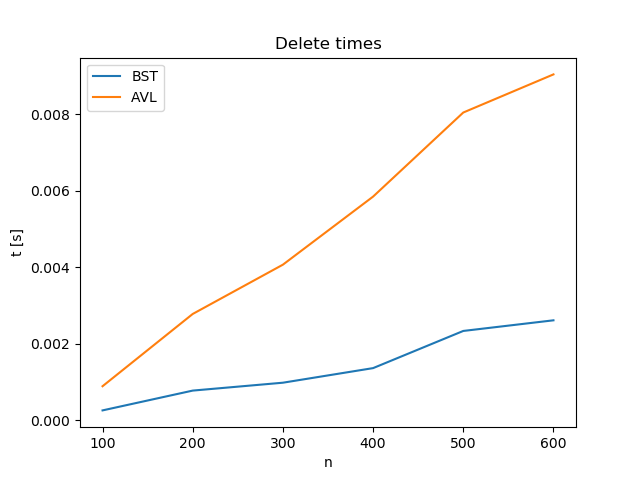
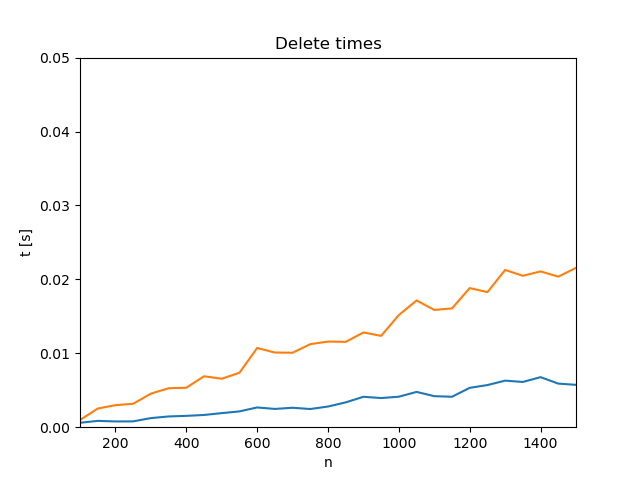
Added new charts

diff --git a/Lab_2/Trees.py b/Lab_2/Trees.py
@@ -10,10 +10,14 @@ def plot_graph_create_tree(amount, increase):  #amount - number of repetitions, 
     n = increase
     prepList = []
     AVLprepList = []
+    # keys[], values[] are used later to create chart
     keysBST = []
     valuesBST = []
     keysAVL = []
     valuesAVL = []
+    # results[] store results that will be added to file
+    results_AVL = []
+    results_BST = []
     while (i < amount):
         treeBST = None
         treeAVL = AVL_Tree()
@@ -33,22 +37,36 @@ def plot_graph_create_tree(amount, increase):  #amount - number of repetitions, 
         stop2 = process_time()
         timeBST = stop1 - start1
         timeAVL = stop2 - start2
+        results_BST.append(f'inserted {n} elements, time: {timeBST}')
+        print(f'inserted {n} elements, time: {timeBST}')
+        results_AVL.append(f'inserted {n} elements, time: {timeAVL}')
+        print(f'inserted {n} elements, time: {timeAVL}')
         keysBST.append(n)
         valuesBST.append(timeBST)
         keysAVL.append(n)
         valuesAVL.append(timeAVL)
         n = n + increase
         i = i + 1
-        print("time", timeAVL)
+
     plt.plot(keysBST, valuesBST, label="BST")
     plt.plot(keysAVL, valuesAVL, label="AVL")
     plt.title(label="Insertion times")
     plt.xlabel("n")
     plt.ylabel("t [s]")
+    plt.axis([0, 11000, 0, 2.5])
     plt.legend()
+
     plt.savefig("Insertion_times.png")
     plt.show()
     plt.clf()
+    with open ("wyniki_AVL.txt", 'w') as fh:
+        for line in results_AVL:
+            fh.write(line)
+
+    with open ("wyniki_BST.txt", 'w') as fh:
+            for line in results_BST:
+                fh.write(line)
+
 
 
 def plot_graph_remove_node(amount, increase, remove):  #amount - number of repetitions, increase - more numbers, remove - how many more node/keys we are removing
@@ -63,6 +81,8 @@ def plot_graph_remove_node(amount, increase, remove):  #amount - number of repet
     valuesBST = []
     keysAVL = []
     valuesAVL = []
+    results_AVL = []
+    results_BST = []
     while (i < amount):
         treeBST = None
         for x in range(1, n + 1):
@@ -83,6 +103,10 @@ def plot_graph_remove_node(amount, increase, remove):  #amount - number of repet
         stop2 = process_time()
         timeBST = stop1 - start1
         timeAVL = stop2 - start2
+        results_BST.append(f'deleted {r} elements, time: {timeBST}')
+        print(f'deleted {r} elements, time: {timeBST}')
+        results_AVL.append(f'deleted {r} elements, time: {timeAVL}')
+        print(f'deleted {r} elements, time: {timeAVL}')
         keysBST.append(r)
         valuesBST.append(timeBST)
         keysAVL.append(r)
@@ -96,15 +120,23 @@ def plot_graph_remove_node(amount, increase, remove):  #amount - number of repet
     plt.title(label="Delete times")
     plt.xlabel('n')
     plt.ylabel("t [s]")
-    plt.legend()
+    plt.axis([100, 1500, 0, 0.05])
     plt.savefig("Delete_times.png")
     plt.show()
     plt.clf()
 
+    with open ("wyniki_AVL.txt", 'w') as fh:
+        for line in results_AVL:
+            fh.write(line)
+
+    with open ("wyniki_BST.txt", 'w') as fh:
+            for line in results_BST:
+                fh.write(line)
+
 
 def main():
-    plot_graph_create_tree(6, 1000)
-    plot_graph_remove_node(6, 101, 100)
+    plot_graph_create_tree(20, 500)
+    plot_graph_remove_node(30, 100, 50)
 
 
 if __name__ == "__main__":

diff --git a/Lab_2/AVL.py b/Lab_2/AVL.py
@@ -14,6 +14,8 @@ class AVLNode():
 
 
 class AVL_Tree(object):
+    def __init__(self):
+        self.list_preorder = []
     # recursive function
     #  1. insert key in subtree rooted with node
     #  2. return new root of subtree
@@ -109,14 +111,13 @@ class AVL_Tree(object):
 
         return self.get_height(root.left) - self.get_height(root.right)
 
-    def print_preorder(self, root):
-
+    def preorder(self, root):
         if not root:
             return
 
-        print("{0} ".format(root.key), end="")
-        self.print_preorder(root.left)
-        self.print_preorder(root.right)
+        self.list_preorder.append(root.key)
+        self.preorder(root.left)
+        self.preorder(root.right)
 
     def delete(self, root, key):
         #  delete given key from subtree with given root.
@@ -188,10 +189,12 @@ class AVL_Tree(object):
         return self.get_min(root.left)
 
 
-# myTree = AVL_Tree()
-# root = None
+myTree = AVL_Tree()
+root = None
 
-# root = myTree.insert(root, 1)
-# root = myTree.insert(root, 4)
-# root = myTree.insert(root, 5)
-# myTree.print_preorder(root)
+root = myTree.insert(root, 1)
+root = myTree.insert(root, 4)
+root = myTree.insert(root, 5)
+lista = []
+myTree.preorder(root)
+print(myTree.list_preorder)
